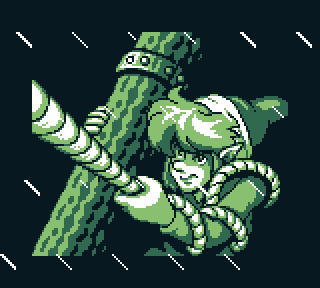
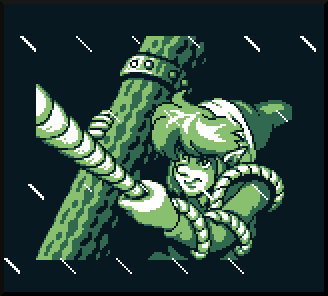
Quick formatting changes and fixes made to README. Added small borders to screenshots.

diff --git a/README.md b/README.md
@@ -7,11 +7,11 @@ Written in C.
 
 
 #Currently Implemented
----------------------
+
 - Complete instruction set of the Gameboy's modified 
   Z80 processor with correct timings with respect to 
   exectution of instructions and memory accesses.
-  (according to Blaargs test ROMs)
+  (according to Blargg's test ROMs)
 
 - Interrupt handling.
 
@@ -32,7 +32,7 @@ Written in C.
 
 
 #Still to implement:
-------------------
+
 - Joypad support from Keyboard.
 
 - Limiting FPS (Currently runs as fast as possible)
@@ -59,12 +59,12 @@ Written in C.
 
 
 
-Current Accuracy Test Tesults
------------------------------
+#Current Accuracy Test Tesults
+
 ![Instructions](/images/instrs.png?raw=true)![Instruction Timing](/images/timing.png?raw=true)![Instructions](/images/mem_timing.png?raw=true)
 
 
 
-Screenshots
------------
-![Tetris](/images/tetris.png?raw=true)![Zelda](/images/zelda.png?raw=true)![Pokemon](/images/pokemon.png?raw=true)![Mario](/images/mario.png?raw=true)
+#Screenshots
+
+![Tetris](/images/tetris.png?raw=true)![Zelda](/images/zelda.png?raw=true)![Pokemon](/images/poke.png?raw=true)![Mario](/images/mario.png?raw=true)
